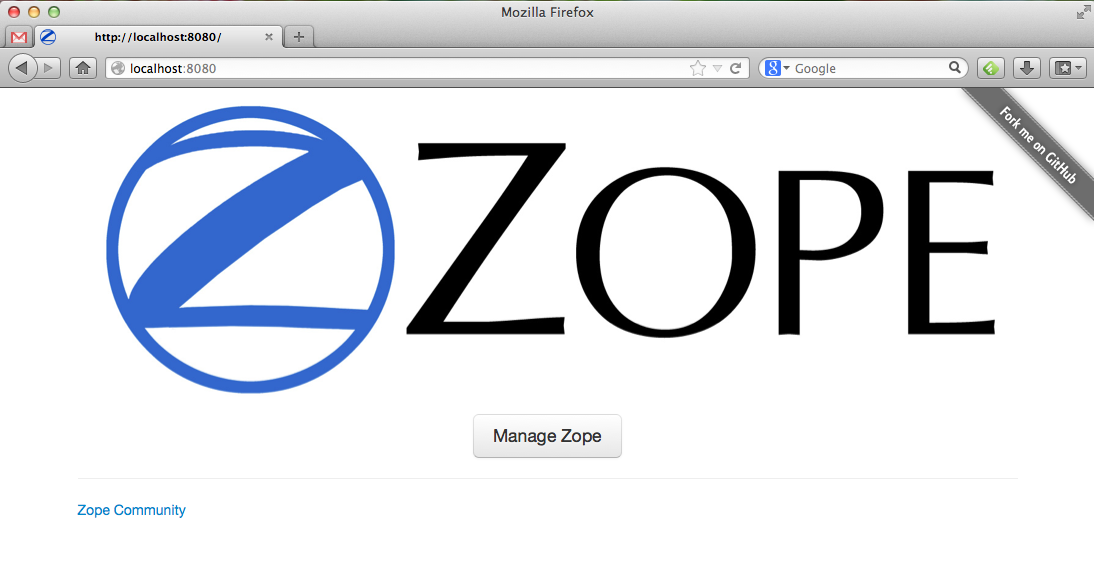
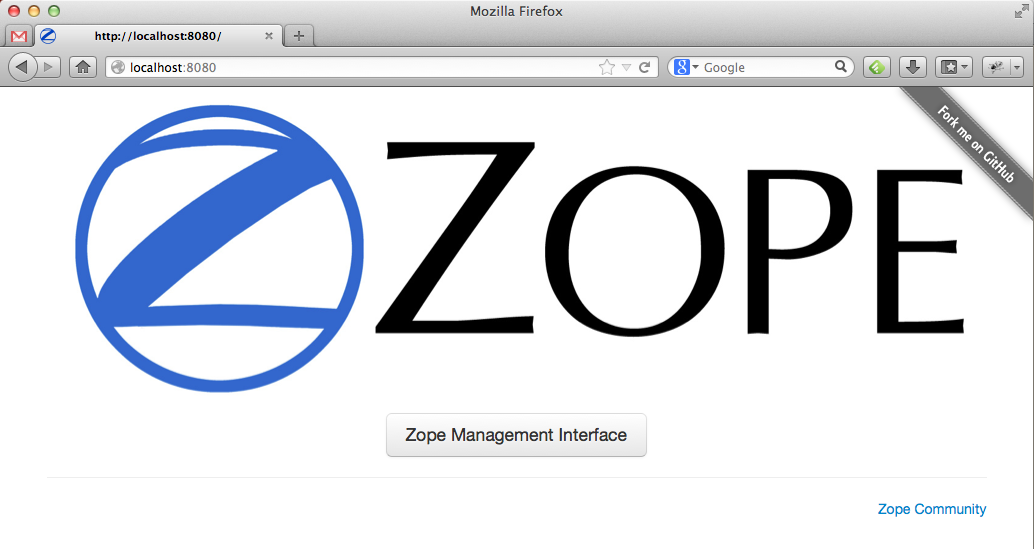
Update screenshot

diff --git a/zope2_bootstrap/config.py b/zope2_bootstrap/config.py
@@ -22,19 +22,13 @@ ZOPE_LOGO_HTML = """\
         html_quote>/++resource++VlogoWhite250.gif"></a>
 """
 
-#ZMI_WARN_HTML = """\
-#<div class="alert"><strong>Warning:</strong> <span>The Zope
-#Management Interface (ZMI) can be a dangerous place. It provides
-#direct access to Zope database (ZODB) objects. As such, you should not attempt
-#to edit, cut, copy, paste, add, or remove any content or change any settings
-#here, unless you know exactly what you are doing. You have been warned!
-#</div></tr><tr>
-#"""
-
-
 ZMI_WARN_HTML = """
     <div class="alert">
     <button type="button" class="close" data-dismiss="alert">&times;</button>
-    <strong>Warning!</strong> Best check yo self, you're not looking too good.
+    <strong>Warning:</strong> <span>The Zope
+    Management Interface (ZMI) can be a dangerous place. It provides
+    direct access to Zope database (ZODB) objects. As such, you should not attempt
+    to edit, cut, copy, paste, add, or remove any content or change any settings
+    here, unless you know exactly what you are doing. You have been warned!
     </div>
 """

diff --git a/zope2_bootstrap/patch.py b/zope2_bootstrap/patch.py
@@ -73,6 +73,7 @@ def apply_patch(scope, original, replacement):
     manage_page_script = os.path.join(here, 'static', 'js', 'bootstrap.js')
     manage_page_header = os.path.join(here, 'manage_page_header')
     manage_page_footer = os.path.join(here, 'manage_page_footer')
+    manage_tabs = os.path.join(here, 'manage_tabs')
 
     dtmlfile = DTMLFile(manage_page_style, globals())
     setattr(Navigation, 'manage_page_style.css', dtmlfile)
@@ -88,6 +89,7 @@ def apply_patch(scope, original, replacement):
 
     # Use class="table" on folder contents
     ObjectManager.manage_main = DTMLFile(manage_main, globals())
+    ObjectManager.manage_tabs = DTMLFile(manage_tabs, globals())
 
     # Add ZMI warning
     target = '<table width="100%" cellspacing="0" cellpadding="2"'
